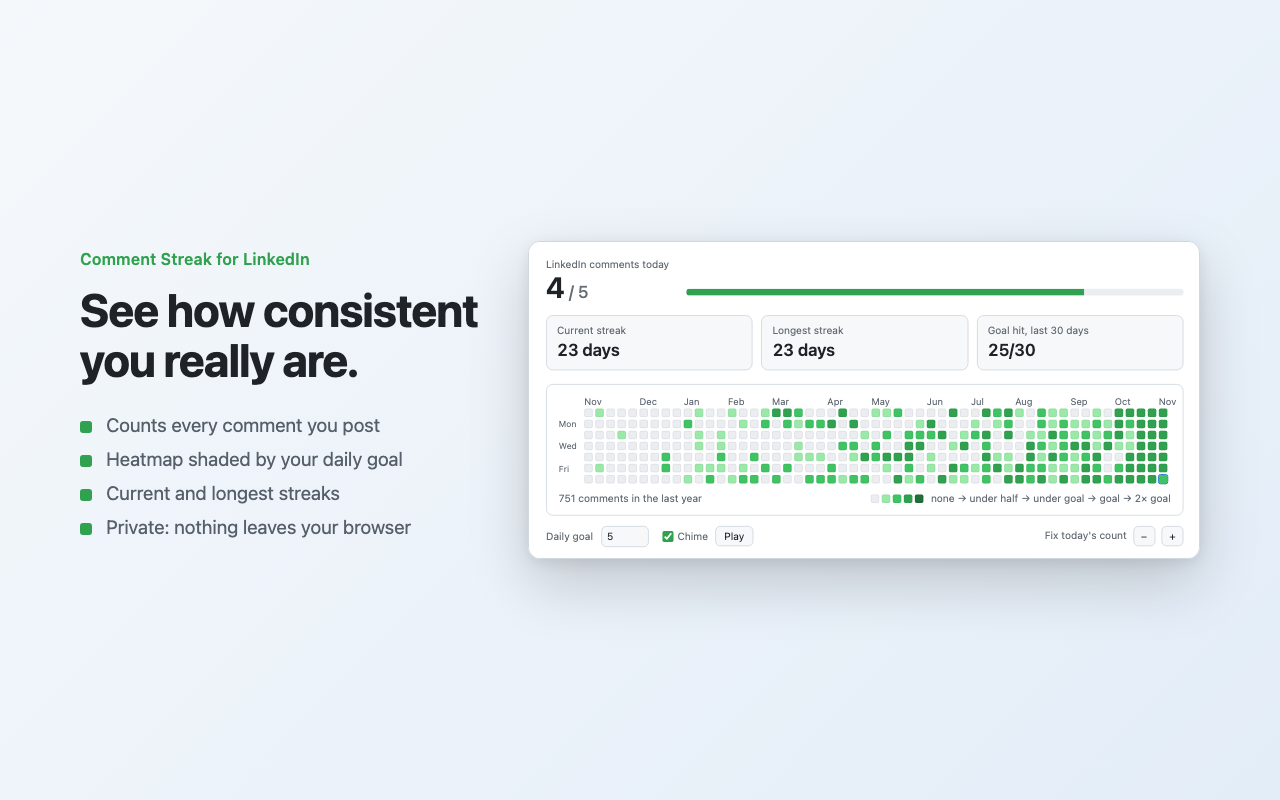
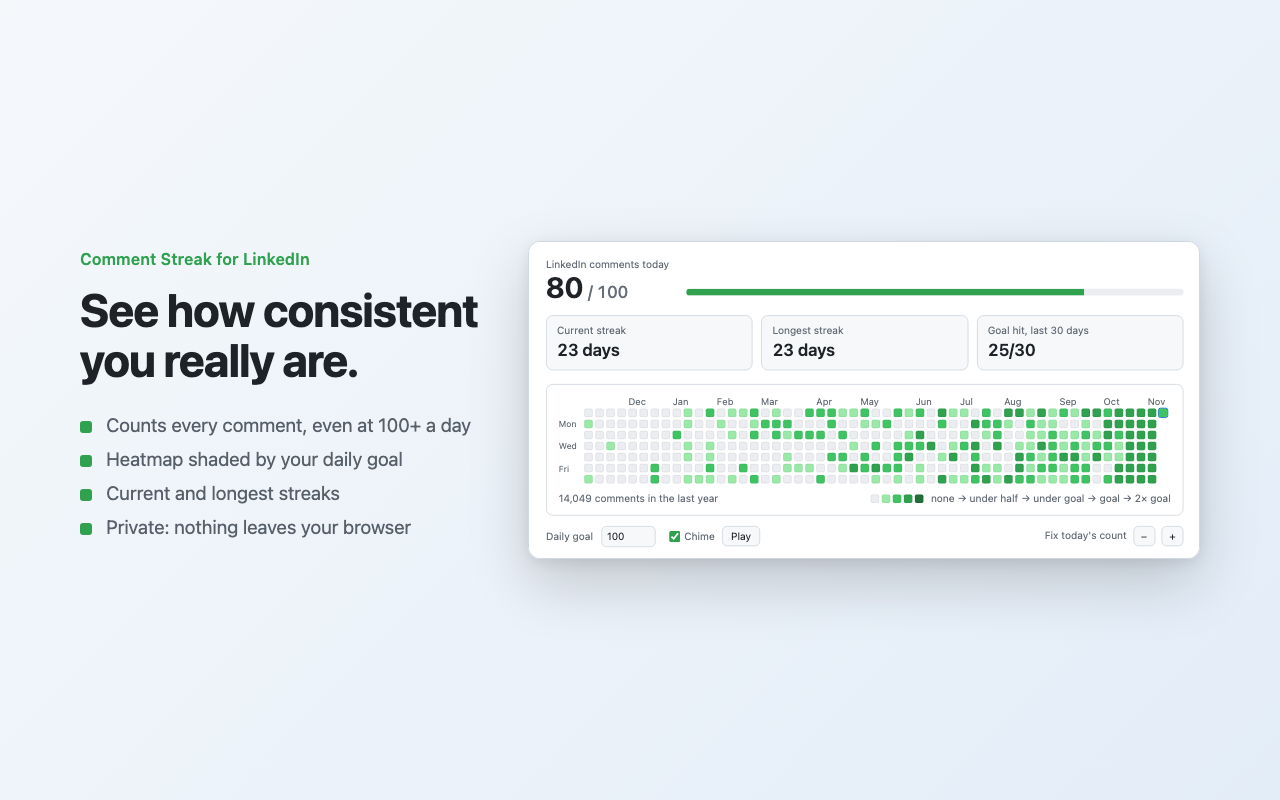
Aim at power users: default goal 100, STE README (v1.3.0)
- Default daily goal is now 100 (was 5); the goal can go up to 1,000.
- Yearly total uses a thousands separator.
- Store screenshots regenerated with a power user's year at goal 100.
- README rewritten in ASD-STE100 Simplified Technical English.

diff --git a/store/src/stub.js b/store/src/stub.js
@@ -13,16 +13,16 @@
     const d = new Date(now.getFullYear(), now.getMonth(), now.getDate() - i);
     const progress = 1 - i / 365; // more consistent in recent months
     if (i <= 23) {
-      counts[key(d)] = 5 + Math.floor(rand(i + 7) * 5); // a 23-day streak
+      counts[key(d)] = 100 + Math.floor(rand(i + 7) * 100); // a 23-day streak at the default goal of 100
     } else if (rand(i) < 0.2 + 0.72 * progress) {
-      counts[key(d)] = 1 + Math.floor(rand(i + 3) * (2 + 7 * progress));
+      counts[key(d)] = 20 * (1 + Math.floor(rand(i + 3) * (2 + 7 * progress))) - Math.floor(rand(i + 11) * 15);
     }
   }
-  counts[key(now)] = 4;
+  counts[key(now)] = 80;
 
   window.chrome = {
     storage: {
-      local: { get: async () => ({ counts, goal: 5, sound: true }), set: async () => {} },
+      local: { get: async () => ({ counts, goal: 100, sound: true }), set: async () => {} },
       onChanged: { addListener() {} },
     },
     runtime: { sendMessage() {} },

diff --git a/extension/popup.js b/extension/popup.js
@@ -18,7 +18,7 @@ async function render() {
   $("current").textContent = days(s.current);
   $("longest").textContent = days(s.longest);
   $("goal30").textContent = `${s.goalDays30}/30`;
-  $("yearTotal").textContent = `${s.yearTotal} ${s.yearTotal === 1 ? "comment" : "comments"} in the last year`;
+  $("yearTotal").textContent = `${s.yearTotal.toLocaleString()} ${s.yearTotal === 1 ? "comment" : "comments"} in the last year`;
   if (document.activeElement !== $("goal")) $("goal").value = goal;
 
   // 53 week columns, Sunday-first, ending with the current week.
@@ -50,7 +50,7 @@ async function render() {
 
 $("goal").addEventListener("change", (e) => {
   const v = Math.round(Number(e.target.value));
-  if (v >= 1 && v <= 100) chrome.storage.local.set({ goal: v });
+  if (v >= 1 && v <= 1000) chrome.storage.local.set({ goal: v });
   else render();
 });
 $("sound").addEventListener("change", (e) => chrome.storage.local.set({ sound: e.target.checked }));

diff --git a/store/src/screenshot.html b/store/src/screenshot.html
@@ -34,7 +34,7 @@
     <div class="eyebrow">Comment Streak for LinkedIn</div>
     <h1 id="headline">See how consistent you really are.</h1>
     <ul id="points">
-      <li>Counts every comment you post</li>
+      <li>Counts every comment, even at 100+ a day</li>
       <li>Heatmap shaded by your daily goal</li>
       <li>Current and longest streaks</li>
       <li>Private: nothing leaves your browser</li>

diff --git a/extension/popup.html b/extension/popup.html
@@ -37,7 +37,7 @@
 
   <footer>
     <span class="left">
-      <label>Daily goal <input id="goal" type="number" min="1" max="100" /></label>
+      <label>Daily goal <input id="goal" type="number" min="1" max="1000" /></label>
       <label class="sound"><input id="sound" type="checkbox" /> Chime</label>
       <button id="testChime" class="text" title="Hear the chime">Play</button>
     </span>

diff --git a/extension/popup.css b/extension/popup.css
@@ -134,7 +134,7 @@ input, button {
   border: 1px solid var(--border);
   border-radius: 6px;
 }
-input { width: 56px; margin-left: 6px; padding: 3px 6px; }
+input { width: 64px; margin-left: 6px; padding: 3px 6px; }
 button { width: 26px; height: 24px; margin-left: 4px; cursor: pointer; }
 button:hover { border-color: var(--accent); }
 .left { display: flex; align-items: center; gap: 16px; }

diff --git a/extension/lib.js b/extension/lib.js
@@ -1,6 +1,6 @@
 // Shared logic for the background worker and the popup.
 
-export const DEFAULT_GOAL = 5;
+export const DEFAULT_GOAL = 100;
 
 const pad = (n) => String(n).padStart(2, "0");
 

diff --git a/README.md b/README.md
@@ -4,128 +4,158 @@
 
 **A GitHub-style streak for your LinkedIn comments.**
 
-Comment Streak is a Chrome extension that counts the comments you post on LinkedIn and turns them into a year-long heatmap. You set a daily goal. Every comment adds a soft ding and bumps the toolbar badge, and the badge turns green when you hit the goal.
+Comment Streak is a Chrome extension. It counts the comments that you post on LinkedIn and shows them on a heatmap for one year. You set a daily goal. The default goal is 100 comments, because the extension is for power users. For each comment, the extension plays a short sound and adds 1 to the toolbar badge. When you reach your goal, the badge changes to green.
 
-![Comment Streak popup: today's count of 4 out of 5, a 23-day current streak, 25 of the last 30 days on goal, and a year-long green heatmap](store/screenshot-1-1280x800.png)
+![Comment Streak popup: 80 of 100 comments today, a current streak of 23 days, the goal on 25 of the last 30 days, and 14,049 comments on a green heatmap for one year](store/screenshot-1-1280x800.png)
 
-**Chrome Web Store:** in review · **Download:** [latest release](https://github.com/authenticryan/linkedin-comment-streak/releases/latest) · **Privacy:** [nothing leaves your browser](PRIVACY.md)
+**Chrome Web Store:** in review · **Download:** [latest release](https://github.com/authenticryan/linkedin-comment-streak/releases/latest) · **Privacy:** [no data goes out of your browser](PRIVACY.md)
 
 ---
 
-## Why I built this
+## Why I made this extension
 
-Every guide to growing on LinkedIn gives the same advice: comment thoughtfully on other people's posts, every day. Comments start conversations with people you'd like to know, and they put your name in front of audiences that don't follow you yet, long before your own posts take off.
+Many guides about LinkedIn give the same advice: write good comments on the posts of other people every day. Comments start conversations with new people. They also show your name to people who do not follow you, before your own posts become popular.
 
-So I set myself a goal of one hundred comments a day, and then realised I couldn't tell whether I was hitting it. LinkedIn shows impressions on your posts, but it gives you no daily count of the comments you write. The habit only works if you keep it up every day, and that was the part I couldn't see.
+I set a goal of 100 comments each day. Then I found that I could not see if I reached this goal. LinkedIn shows the views on your posts. It does not show how many comments you write each day. The habit is effective only if you do it every day, and I could not see that part.
 
-Developers already have a fix for this problem: GitHub's contribution graph. A green square for every day you showed up is a simple reason not to break the chain. So I built the same thing for LinkedIn comments. It counts on its own, so there's nothing to log, and it sits in the toolbar where I see it all day.
+Software developers have a solution for this problem: the GitHub contribution graph. The graph shows a green square for each day that you did work. The green squares give you a reason to continue each day.
 
-## What it does
+I made the same type of graph for LinkedIn comments. At 100 comments each day, you cannot count by hand. For this reason, the extension counts automatically. It stays in the toolbar, where you can see it all day.
 
-- **Automatic counting.** Post a comment or a reply on linkedin.com and it's counted, with nothing to log by hand. Edits, deletes and failed posts don't count.
-- **Toolbar badge.** Today's count is always visible. The badge turns from blue to green when you hit your goal.
-- **Heatmap and streaks.** A year of days, each shaded by how close you came to your goal: light is under half, mid is under goal, dark is goal met and darkest is double. You also get your current streak, your longest streak and how many of the last 30 days hit the goal. Hover a day to see its count.
-- **A ding for every comment.** A soft two-note chime plays for each comment, and a brighter four-note chime plays when you reach your goal. Preview it with **Play** (shift-click for the goal chime) or switch it off.
-- **⌘+Enter to post.** (Ctrl+Enter on Windows) posts the comment you're typing.
-- **Fixable.** If a count is ever wrong, **−** and **+** correct today's number.
-- **Private.** No account, no server, no analytics. It never reads your comment text.
+## What the extension does
 
-![Dark mode: a ding for every comment, the badge shows today's count, ⌘+Enter posts the comment you're typing](store/screenshot-2-1280x800.png)
+- **Automatic count.** When you post a comment or a reply on linkedin.com, the extension counts it. You do not record it yourself. The extension does not count edits, deleted comments, or posts that fail.
+- **Toolbar badge.** The badge shows the number of comments for today. The badge changes from blue to green when you reach your goal.
+- **Daily goal.** The default goal is 100 comments each day. You can set a goal from 1 to 1,000 in the popup.
+- **Heatmap and streaks.** The heatmap shows each day of the last year. The color of a day shows how near you were to your goal:
+  - Light green: less than half of your goal
+  - Medium green: less than your goal
+  - Dark green: your goal
+  - Darkest green: two times your goal, or more
+
+  The extension also shows your current streak and your longest streak. It also shows the number of days in the last 30 days that you reached your goal. Put the pointer on a day to see its count.
+- **A sound for each comment.** The extension plays a short two-note sound for each comment. When you reach your goal, it plays a brighter four-note sound. To hear the sound, click **Play**. To hear the goal sound, hold Shift and click **Play**. You can also set the sound to off.
+- **⌘+Enter to post.** Press ⌘+Enter (Ctrl+Enter on Windows) to post the comment in the comment box.
+- **Manual correction.** If the count for today is not correct, use **−** and **+** to correct it.
+- **Privacy.** The extension has no account, no server, and no analytics. It does not read the text of your comments.
+
+![Dark theme: a sound for each comment, the badge shows the count for today, and ⌘+Enter posts the comment](store/screenshot-2-1280x800.png)
 
 ## Product decisions
 
-In a small product, most of the interesting decisions are about what to leave out, and why.
+In a small product, the most important decisions are about what to remove. This table gives each decision and the reason for it.
 
-| Decision | Reasoning |
+| Decision | Reason |
 |---|---|
-| **Count automatically from LinkedIn's own request** | People abandon trackers they have to update by hand. Watching for LinkedIn's "comment saved" request means counting takes zero effort, and only comments that actually posted are counted. |
-| **Count one exact action and ignore lookalikes** | About 80 ms before every real `createComment`, LinkedIn fires a similar-looking `submitCommentButton` request. Counting both would double every number, and nobody keeps using a tracker they can't trust. |
-| **Shade by your goal, not by raw volume** | GitHub shades a day by how busy it was. Here the colour answers one question: did I show up? Dark green means you met your goal, whether the goal is 2 a day or 10. |
-| **Streaks survive until the day is over** | If the streak dropped to 0 every morning until your first comment, it would feel like a penalty. As on GitHub, it stays alive from yesterday until midnight. |
-| **Show "Goal hit, last 30 days" next to the streak** | One missed day resets a streak to zero, and that's when people quit. Seeing 25/30 tells you you're still consistent, so one bad day doesn't end the habit. |
-| **A chime, and a bigger one at the goal** | Instant feedback helps a habit stick, and the goal chime marks the finish line. The sound is generated in the browser, so there are no audio files, and it can be switched off. |
-| **Let people fix the count** | Counting depends on LinkedIn's website, and that website changes. With − and +, a missed comment takes two seconds to fix and doesn't cost you your streak. |
-| **⌘+Enter presses LinkedIn's own button** | It makes the core action faster without automating it. You still write and send every comment yourself, which keeps the extension clear of LinkedIn's rules against automation. |
-| **Named "Comment Streak for LinkedIn"** | A name that starts with "LinkedIn" reads like an official product, which risks rejection from the Chrome Web Store. "X for LinkedIn" passes review and still matches what people search for. The listing uses no LinkedIn logo. |
-| **No account, no server, narrow permissions** | It runs on a site full of private data, so it reads only the address and status of LinkedIn's own requests, and only on linkedin.com. That earns trust and keeps store review simple. |
-| **Desktop only, and upfront about it** | A Chrome extension can't see the LinkedIn mobile app. The README and the store listing say so, so nobody is surprised by a low count. |
+| **Set the default goal to 100** | This extension is for power users who write many comments each day. A low default goal, such as 5, gives no challenge to these users. If your target is different, you can set a goal from 1 to 1,000. |
+| **Count automatically from the LinkedIn request** | People do not continue to use a tracker if they must record each item. The extension monitors the "comment saved" request from LinkedIn. You do no work, and the extension counts only the comments that LinkedIn saved. |
+| **Count one action only, and ignore similar requests** | Approximately 80 ms before each `createComment` request, LinkedIn sends a similar `submitCommentButton` request. If the extension counted the two requests, each number would be two times too large. People do not continue to use a tracker that shows incorrect numbers. |
+| **Use the goal to set the color, not the quantity** | GitHub sets the color of a day from the quantity of work. In this extension, the color answers one question: did you reach your goal? Dark green shows that you reached it, for a goal of 20 or a goal of 100. |
+| **Keep the streak until the day ends** | If the streak changed to 0 each morning before your first comment, you would see this as a penalty. As on GitHub, the streak from yesterday continues until midnight. |
+| **Show "Goal hit, last 30 days" next to the streak** | If you miss one day, the streak changes to zero. At that time, many people stop. A value such as 25/30 shows that you are still consistent, so one bad day does not stop the habit. |
+| **Play a sound, and a brighter sound at the goal** | Immediate feedback helps people to continue a habit. The goal sound shows that you completed the goal for the day. The browser makes the sound, so the extension has no audio files. You can set the sound to off. |
+| **Let users correct the count** | The count uses the LinkedIn website, and LinkedIn changes its website. With **−** and **+**, you can correct a missed comment in two seconds, and you keep your streak. |
+| **⌘+Enter clicks the LinkedIn button** | The shortcut makes the main action faster, but it does not make the action automatic. You write and send each comment yourself. For this reason, the extension does not go against the LinkedIn rules about automation. |
+| **Use the name "Comment Streak for LinkedIn"** | If a name starts with "LinkedIn", it looks like an official LinkedIn product. The Chrome Web Store can reject an extension for this reason. A name such as "X for LinkedIn" is safe for review, and people can find it when they search. The listing does not use the LinkedIn logo. |
+| **No account, no server, and few permissions** | LinkedIn contains much private data. For this reason, the extension reads only the address and the status of LinkedIn requests, and only on linkedin.com. Users can trust the extension, and the store review is easier. |
+| **Desktop only, and the documentation says this** | A Chrome extension cannot monitor the LinkedIn mobile app. This README and the store listing tell you this, so a low count is not a surprise. |
 
-## How it's built
+## Technical design
 
-- **Manifest V3, vanilla JavaScript, no build step, zero dependencies.** About 550 lines in total. The store package is about 11 KB.
-- **Counting without reading content.** The background service worker listens to `webRequest.onCompleted` on two LinkedIn URL patterns and looks only at each request's method, URL and status code. A comment counts when a `POST` to LinkedIn's create-comment action returns a 2xx status. It never reads request or response bodies.
-- **Works on both versions of LinkedIn's site.** LinkedIn's classic web app uses its Voyager REST API. Its newer web app sends every action to a single endpoint and names the action in an `sduiid` parameter. The matcher handles both, with a GraphQL fallback. Support for the newer app shipped in v1.1.0, because counting didn't work there before.
-- **No lost counts.** Storage writes go through a queue, so two comments posted seconds apart can't overwrite each other. A 2-second guard stops one comment from being counted twice.
-- **Sound from a service worker.** Manifest V3 service workers can't play audio, so the chime runs in an offscreen document. The Web Audio API generates it from sine tones and an overtone, so there are no sound files.
-- **Tested against real traffic.** The tests use request names captured on linkedin.com, including the lookalikes that must not count, and they also cover the streak and shading rules. They run on Node's built-in test runner.
-- **Built to be fixed fast.** The service worker logs every LinkedIn `POST` it sees. If LinkedIn changes its endpoint, the new request name appears in the console after a single test comment. [MAINTAINING.md](MAINTAINING.md) is the runbook.
-- **Store images from the real UI.** A script renders the actual popup in headless Chrome with a year of sample data, so the screenshots show the real product, not a mockup.
-- **Light and dark.** It follows the system theme and uses GitHub's contribution-graph palette.
-- **Release pipeline.** On every push, GitHub Actions validates the manifest and runs the tests. Pushing a `v*` tag builds the store zip and publishes a GitHub release, with notes taken from the changelog. The release fails if the tag and manifest versions disagree.
+- **Manifest V3, JavaScript only, no build step, no dependencies.** The code has approximately 550 lines. The store package is approximately 11 KB.
+- **The extension counts comments, but does not read them.** The background service worker monitors `webRequest.onCompleted` for two LinkedIn URL patterns. It reads only the method, the URL, and the status code of each request. When a `POST` to the LinkedIn create-comment action gives a 2xx status, the extension counts one comment. It does not read the body of a request or a response.
+- **Two versions of the LinkedIn website.** The classic LinkedIn web app uses the Voyager REST API. The new web app sends all actions to one endpoint, and an `sduiid` parameter gives the name of the action. The matcher function examines the two versions and has a GraphQL fallback. Version 1.1.0 added support for the new app. Before version 1.1.0, the extension did not count comments in the new app.
+- **No lost counts.** All storage writes go through a queue, so two comments that you post at almost the same time cannot overwrite each other. A 2-second guard makes sure that the extension counts each comment only one time.
+- **Sound from a service worker.** In Manifest V3, a service worker cannot play audio. For this reason, the sound plays in an offscreen document. The Web Audio API makes the sound from sine tones and one overtone, so the extension has no sound files.
+- **Tests with real data.** The tests use request names from linkedin.com. These names include the similar requests that the extension must not count. The tests also examine the streak and color rules. The tests use the built-in test runner of Node.
+- **Fast repairs.** The service worker records each LinkedIn `POST` request in the console. If LinkedIn changes its endpoint, the new request name shows in the console after one test comment. [MAINTAINING.md](MAINTAINING.md) gives the repair procedure.
+- **Store images from the real interface.** A script opens the real popup in headless Chrome with sample data for one year. Thus, the screenshots show the real product, not a mockup.
+- **Light and dark themes.** The extension uses the theme of your system and the colors of the GitHub contribution graph.
+- **Release pipeline.** For each push, GitHub Actions examines the manifest and runs the tests. When you push a `v*` tag, GitHub Actions makes the store zip file and publishes a GitHub release. The release notes come from the changelog. If the tag and the manifest version are different, the release stops.
 
 ## Go-to-market notes
 
-How I'd take this from side project to something people find:
+This section shows how I would change this side project into a product that people can find.
 
-- **Who it's for:** people who grow on LinkedIn by commenting. That means job seekers trying to get noticed by hiring managers, founders and B2B sellers doing social selling, and new creators building an audience before their own posts take off.
-- **Positioning:** for people building a LinkedIn presence one comment at a time, Comment Streak makes daily consistency visible. LinkedIn analytics tools track outputs you can't control (impressions, followers). Comment Streak tracks the input you can: comments. And unlike AI comment tools, it never writes anything for you.
-- **Discovery:** Chrome Web Store search comes first ("LinkedIn comments", "LinkedIn streak", "LinkedIn habit"), so the listing's name, summary and screenshots do most of the work. LinkedIn itself comes next. Growth coaches already tell their clients to comment every day, and this gives them a tool to recommend.
-- **The product markets itself:** for developers, a green contribution graph is already a status symbol. A shareable "90 days of comments" image, posted on LinkedIn, would reach exactly the people likely to install it.
-- **What I'd measure:** the extension has no analytics by design, so the Chrome Web Store dashboard is the scoreboard: weekly active users, installs against uninstalls, and rating. Activation is the first comment counted, which proves counting works for that user. Retention is still being active after 30 days. Anything deeper would need opt-in telemetry, and that would cost trust.
-- **Biggest risk:** dependence on LinkedIn's platform. LinkedIn can change its website at any time, and it already has once (v1.1.0). The safeguards: tests built on real request names, a debug log with a runbook, a manual fix for the count, and a planned self-check that flags when counting stops.
+- **Users:** Power users who write many comments each day to grow on LinkedIn. Examples:
+  - Creators who use comments as their main growth channel
+  - Founders and B2B sellers who use social selling at high volume
+  - Job seekers who write many comments to show their name to hiring managers
+- **Positioning:** For power users who make a LinkedIn presence with comments, Comment Streak shows daily consistency. LinkedIn analytics tools monitor results that you cannot control, such as views and followers. Comment Streak monitors the input that you can control: your comments. AI comment tools write comments for you. Comment Streak does not.
+- **Discovery:** The first channel is search in the Chrome Web Store, for example "LinkedIn comments", "LinkedIn streak", and "LinkedIn habit". For this reason, the name, summary, and screenshots of the listing do most of the work. The second channel is LinkedIn. Growth coaches tell their clients to write comments each day. This extension gives the coaches a tool to recommend.
+- **The product is its own marketing:** For software developers, a green contribution graph shows status. A future feature can make an image of your heatmap, for example "9,000 comments in 90 days". When users post this image on LinkedIn, it goes to the people who are most likely to install the extension.
+- **Metrics:** The extension has no analytics, and this is intentional. For this reason, the Chrome Web Store dashboard gives the metrics: weekly active users, installs compared with uninstalls, and rating.
+  - Activation: the extension counts the first comment of a user. This shows that the count operates for that user.
+  - Retention: the user is still active after 30 days.
+
+  For more detailed metrics, opt-in telemetry is necessary. Telemetry would decrease the trust of users.
+- **Largest risk:** The extension depends on the LinkedIn platform. LinkedIn can change its website at any time. This occurred one time before (version 1.1.0). These items decrease the risk:
+  - Tests that use real request names
+  - A debug log and a repair procedure
+  - Manual correction of the count
+  - A planned self-check that shows when the count stops
 
 ## Roadmap
 
-- Export and import your history as a file, so a new computer or a reinstall keeps your heatmap
-- Self-check: a "!" on the badge if you press Comment and nothing is counted, so a LinkedIn change gets caught in seconds rather than days
-- Weekly summary: this week compared with last week
-- Shareable heatmap image (the growth loop above)
-- Microsoft Edge Add-ons (the same package should work unchanged)
+- **Export and import.** Save your history as a file. Then you keep your heatmap on a new computer or after you install the extension again.
+- **Self-check.** If you click **Comment** and the extension does not count a comment, the badge shows "!". Thus, you see a LinkedIn change in seconds, not in days.
+- **Weekly summary.** Compare this week with last week.
+- **Heatmap image.** Make an image of your heatmap that you can share (the growth loop above).
+- **Microsoft Edge Add-ons.** I expect that the same package operates in Edge without changes.
 
-## Run it locally
+## Install from the source code
 
-1. Clone this repo.
-2. Open `chrome://extensions`, turn on **Developer mode**, click **Load unpacked** and choose the `extension/` folder.
-3. Pin it (puzzle-piece icon → pin **Comment Streak for LinkedIn**), then comment on linkedin.com.
+1. Clone this repository.
+2. In Chrome, open `chrome://extensions`.
+3. Set **Developer mode** to on.
+4. Click **Load unpacked**.
+5. Select the `extension/` folder.
+6. Click the puzzle-piece icon in the toolbar.
+7. Pin **Comment Streak for LinkedIn**.
+8. Post a comment on linkedin.com.
+9. Make sure that the count on the badge increases by 1.
 
-After pulling an update, click ↻ on the extension in `chrome://extensions` and refresh your LinkedIn tabs.
+After you pull an update:
+
+1. In `chrome://extensions`, click ↻ on the extension.
+2. Refresh your LinkedIn tabs.
 
 ```sh
-npm test                    # detection, streak and heatmap tests
-npm run check               # manifest and syntax checks
-npm run package             # build dist/linkedin-comment-streak-<version>.zip for the Chrome Web Store
-sh scripts/store-assets.sh  # regenerate store screenshots, promo tile and icons (macOS, needs Chrome)
+npm test                    # Run the tests for the count, streaks, and heatmap
+npm run check               # Examine the manifest and the syntax
+npm run package             # Make dist/linkedin-comment-streak-<version>.zip for the Chrome Web Store
+sh scripts/store-assets.sh  # Make the store images and icons again (macOS, Chrome is necessary)
 ```
 
-You don't need to run `npm install`, because there are no dependencies. Requires Node 20+.
+It is not necessary to run `npm install`, because the extension has no dependencies. Node 20 or later is necessary.
 
 ## Repository
 
 ```
-extension/              The extension (load this folder unpacked)
+extension/              The extension. Load this folder unpacked.
   manifest.json         MV3 manifest: permissions, linkedin.com host, popup
-  background.js         Service worker: detects comments, counts, badge, chime
-  lib.js                Shared logic: comment matcher, streaks, heatmap shades
-  content.js            ⌘+Enter shortcut on LinkedIn's comment box
-  popup.html/css/js     Heatmap, streaks and settings
-  offscreen.*, chime.js Chime playback (Web Audio, no sound files)
+  background.js         Service worker: finds comments, counts, badge, sound
+  lib.js                Shared logic: comment matcher, streaks, heatmap colors
+  content.js            ⌘+Enter shortcut for the LinkedIn comment box
+  popup.html/css/js     Heatmap, streaks, and settings
+  offscreen.*, chime.js Sound (Web Audio, no sound files)
   icons/
 tests/                  Logic tests (Node, no dependencies)
 scripts/                Manifest check, store zip, release notes, store images, icons
-store/                  Store screenshots, promo tile, icon and their HTML sources
-.github/workflows/      CI and tag-driven releases
-MAINTAINING.md          What breaks, how to fix it, how to release
-PUBLISHING.md           Chrome Web Store submission guide
+store/                  Store screenshots, promo tile, icon, and their HTML sources
+.github/workflows/      CI and releases from tags
+MAINTAINING.md          Failures, repairs, and the release procedure
+PUBLISHING.md           Chrome Web Store submission procedure
 PRIVACY.md              Privacy policy
 CHANGELOG.md            Release history
 ```
 
-## Versioning
+## Versions
 
-[Semantic Versioning](https://semver.org/), with `extension/manifest.json` as the source of truth. Every release is a tagged commit with a [changelog](CHANGELOG.md) entry and a GitHub release that has the store zip attached. The full process is in [MAINTAINING.md](MAINTAINING.md).
+The extension uses [Semantic Versioning](https://semver.org/). The version number in `extension/manifest.json` is the primary version number. All other version numbers must agree with it. Each release has a tagged commit, a [changelog](CHANGELOG.md) entry, and a GitHub release with the store zip file. [MAINTAINING.md](MAINTAINING.md) gives the full procedure.
 
 ## Credits
 
-- The heatmap: GitHub's contribution graph, including its colour palette.
-- Built by Ryan Dsouza, with [Claude Code](https://claude.com/claude-code) as pair programmer.
-- [MIT licensed](LICENSE). Not affiliated with or endorsed by LinkedIn.
+- Heatmap: the GitHub contribution graph and its colors.
+- Ryan Dsouza made this extension, with [Claude Code](https://claude.com/claude-code) as the pair programmer.
+- [MIT license](LICENSE). LinkedIn did not make this extension and has no connection with it.

diff --git a/CHANGELOG.md b/CHANGELOG.md
@@ -1,5 +1,11 @@
 # Changelog
 
+## 1.3.0 — 2026-11-08
+
+- Built for power users: the default daily goal is now 100 comments (was 5), and you can set a goal up to 1,000 (was 100). A goal you already set doesn't change.
+- The yearly total shows a thousands separator (for example, 14,049 comments).
+- Store screenshots show a power user's year at the new default goal.
+
 ## 1.2.1 — 2026-11-07
 
 - Renamed to "Comment Streak for LinkedIn" for the Chrome Web Store, so the name doesn't look like an official LinkedIn product.
